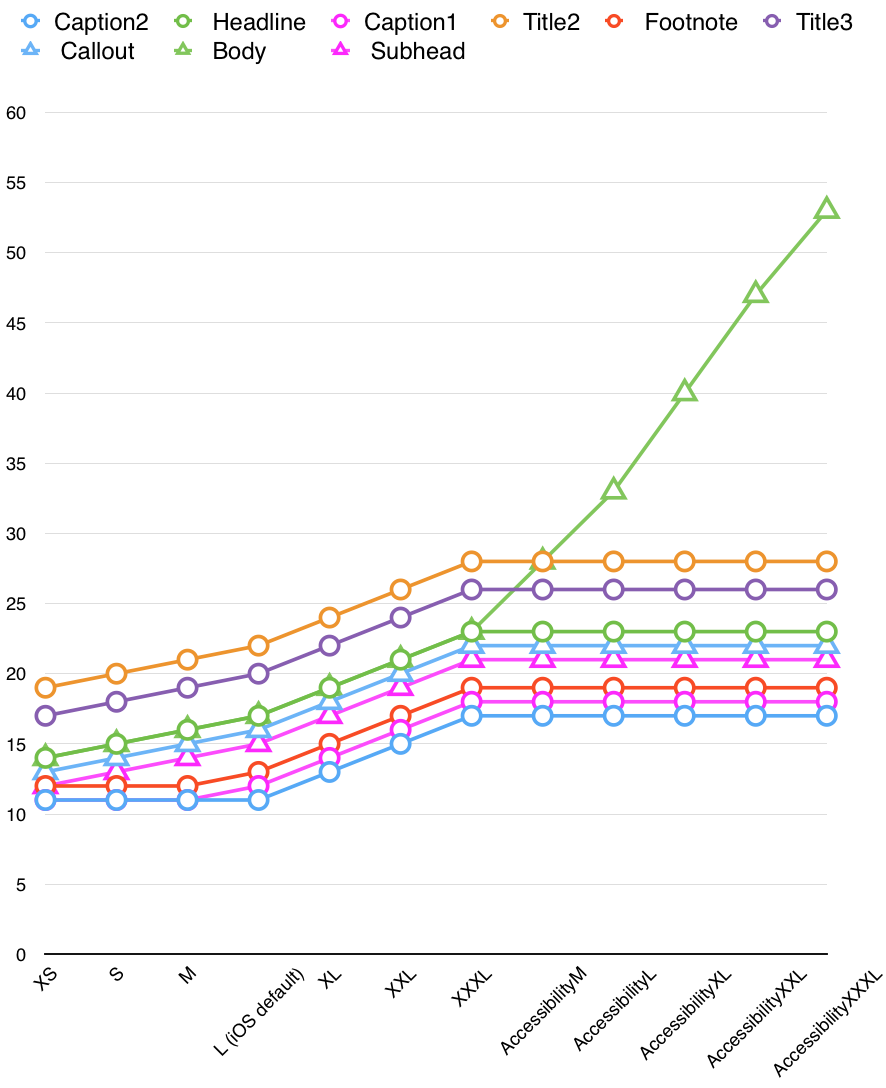
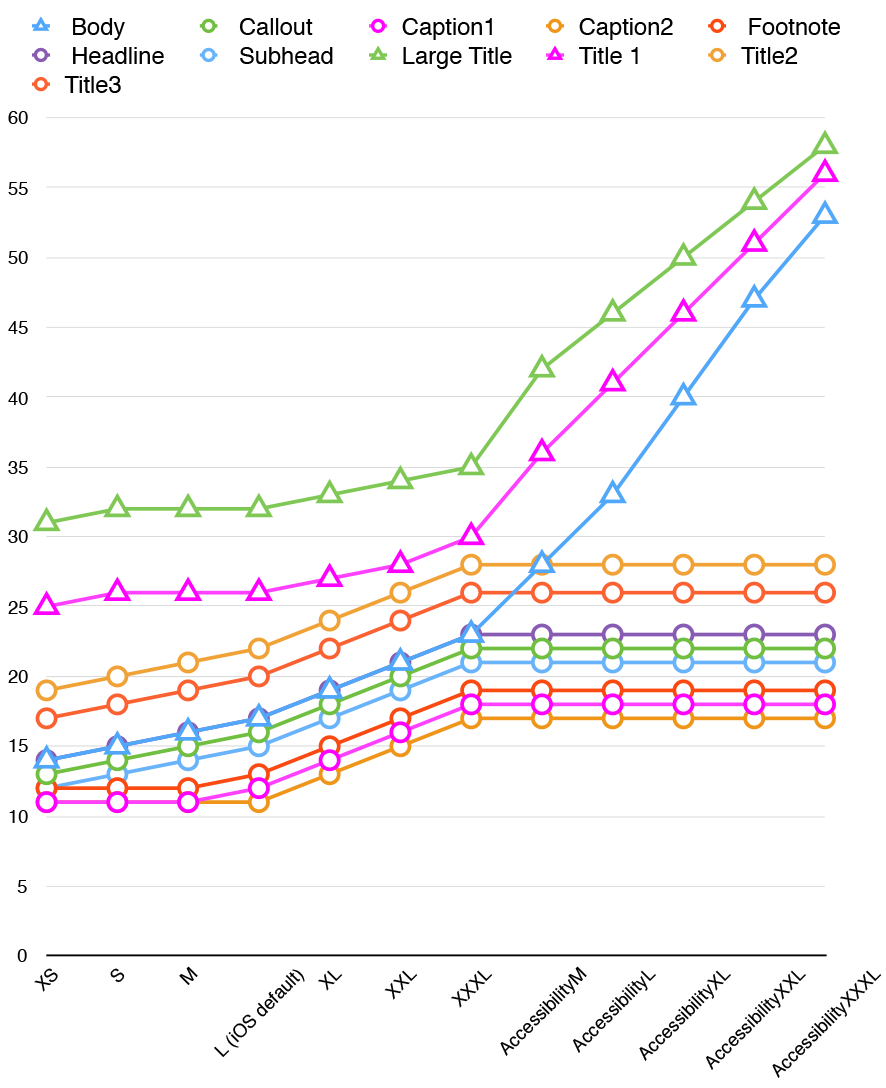
Add Title 1 and Large Title sizes to graph. Fixes #339.

diff --git a/README.md b/README.md
@@ -179,7 +179,7 @@ If you want more manual control over the adaptation process and are targeting iO
 
 The `.control` and `.body` behaviors both scale the same, except that when enabling the "Larger Dynamic Type" accessibility setting, `.body` grows unbounded. Here is a graph of the default behaviors of the [system Dynamic Type styles](https://developer.apple.com/ios/human-interface-guidelines/visual-design/typography#dynamic-type-sizes):
 
-<img width=443 src="Resources/readme-images/ios-type-scaling-behavior.png" alt="Graph of iOS Dynamic Type scaling behavior, showing that Control text tops out at the XXL size, but Body text keeps growing all the way up to AccessibilityXXL" />
+<img width=443 src="Resources/readme-images/ios-type-scaling-behavior.png" alt="Graph of iOS Dynamic Type scaling behavior, showing that most text tops out at the XXL size, but Body, Large Title, and Title 1 text keeps growing all the way up through AccessibilityXXXL" />
 
 ## Storyboard and XIB Integration
 
